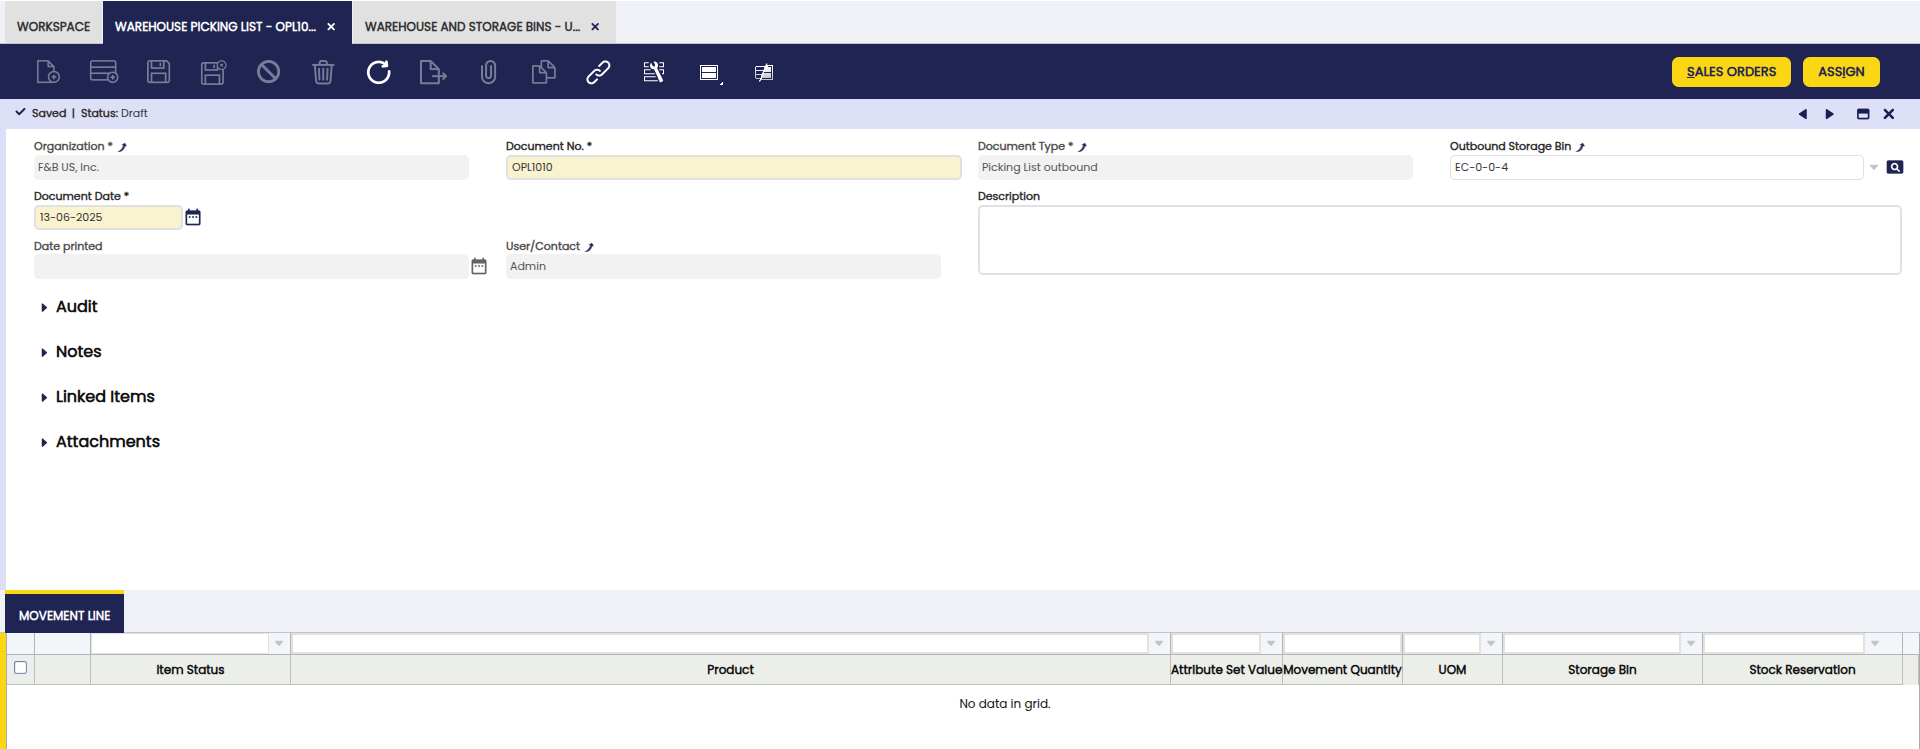
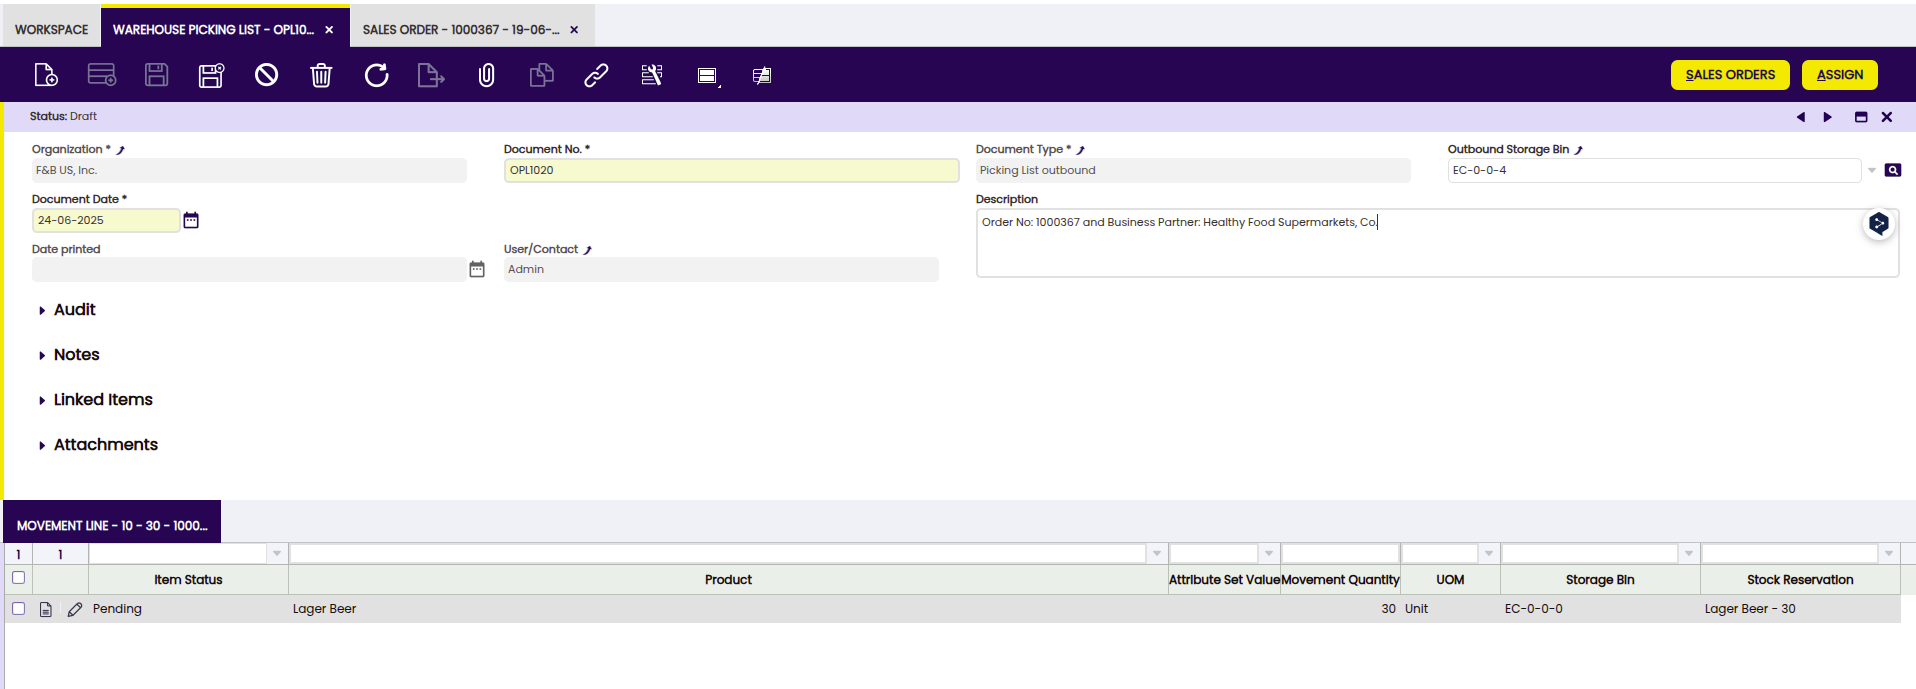
feature ETP-1579: edit content and add VAs.

Changed region(s): [[0.0, 0.0, 1.0, 1.0], [0.2463, 0.3048, 0.3079, 0.3962], [0.4927, 0.9144, 0.5543, 0.9448]]

diff --git a/docs/user-guide/etendo-classic/optional-features/bundles/warehouse-extensions/picking.md b/docs/user-guide/etendo-classic/optional-features/bundles/warehouse-extensions/picking.md
@@ -41,7 +41,7 @@ In Etendo there are 2 types of picking lists available:
 In order to generate picking lists, some configuration is needed:
 
 - **Document type**: The Picking list document type must be defined for each organization.
-The module provides a dataset with basic document types that can be applied. Go to [Enterprise module management](../../../basic-features/general-setup/enterprise-model.md#enterprise-module-management) and apply the **Warehouse Picking List dataset** for each organization using Picking Lists. Once it is applied, the document types are created.
+The module provides a dataset with basic document types that can be applied. Go to [Enterprise Module Management](../../../basic-features/general-setup/enterprise-model.md#enterprise-module-management) and apply the **Warehouse Picking List dataset** for each organization using Picking Lists. Once it is applied, the document types are created.
 
 ![picking1](../../../../../assets/user-guide/etendo-classic/optional-features/bundles/warehouse-extensions/picking/picking1.png)
 
@@ -52,7 +52,7 @@ The dataset adds two new document types, with their own Document Sequences which
 
 **Picking List outbound**: Used for **Outbound Picking List**, therefore **Use Outbound location** flag is set as **Yes** by default. This means that a Goods Movement needs to be created to move the goods from goods' storage bin to outbound storage bin. In this case, a storage bin of the warehouse needs to be defined as **Outbound**.
 
- - Generate Shipment on PL Completion flag if check generates Goods Shipments if Picking List is completed. A Goods Shipment document type needs to be selected in the field **Shipment for Picking**.
+ - Generate Shipment on PL Completion flag if checked generates Goods Shipments if Picking List is completed. A Goods Shipment document type needs to be selected in the field **Shipment for Picking**.
 
 **Grouping Pick List**: Using Outbound location and the **Is Grouping Picking List** flag checked. This document type is used when grouping different picking list in one list.
 
@@ -100,14 +100,8 @@ Fields to note:
 !!! info
     Products included in the outbound picking list are automatically reserved, ensuring that they cannot be used by other processes or picking lists.
 
-Once the header is manually created click on the Select Sales Orders button. This opens a window with a grid containing all the Sales Orders pending to be delivered that are not on an open Picking List. The sales orders that are shown are filtered by the warehouse of the outbound bin defined in the header of the picking list.
 
-It could happen that a sales order has items reserved in a warehouse **different than the warehouse defined in its header (due to definition of "qty on hand" per organization and priorities). In that case the picking list will try to re-allocated items from that warehouse to the warehouse of the outbound bin. If there is no way to perform this action the system will throw an error.
-
-!!!note
-    The system assumes that picking bins (from where you get the items) and the outbound bin must belong to the same warehouse. That's the reason why the system always try to reallocated items in the above scenario and also filters sales orders based on the warehouse of the outbound bin.
-
-From the **Sales Order** window, it is possible to select multiple orders which must be booked and they are not completely shipped. Using this process **both type of Picking Lists can be created**.
+From the [Sales Order](../../../basic-features/sales-management/transactions.md#sales-order) window, it is possible to select multiple orders which must be booked and they are not completely shipped. Using this process **both type of Picking Lists can be created**.
 
 
 The module adds a flag **In Picking List** in the Sales Order Header. This is checked when one of the lines of the sales order is present in a Picking List that is not closed. Using this flag and the Delivery Status and Delivery Date fields, it is possible to filter the Sales Order window to identify the Sales Orders needed to be included in a Picking List.
@@ -117,9 +111,29 @@ The module adds a flag **In Picking List** in the Sales Order Header. This is ch
 
 When a Sales Order line is included in a Picking List it must have a related reservation. The stock reserved is the used in the Picking List. The processes that generate the Picking Lists automatically create the reservations if the Sales Order Line does not have one.
 
+### Tab
+
+The **Movement Line** tab is shown when Outbound picking lists grouped is included. This includes all the goods movements related to the Picking List. 
+
+![picking8](../../../../../assets/user-guide/etendo-classic/optional-features/bundles/warehouse-extensions/picking/picking8.png)
+
+Relevant fields to note:
+
+- **Stock Reservation**: the reservation related to the movement, that links with the sales order line.
+- **Incidence Reason**: in case the line is in Incidence status can show a description of the incidence.
+- **Group Picking List** and **Warehouse Picking List**: in case a picking list is grouped shows the link to the original or the grouping picking list.
+
+#### Button
+
+- **Edit Item**: Edits the lines to change the attributes of the product to be picked. It is possible to select **different attributes and storage bins**. The total quantity must be equal or lower than the movement quantity of the related Stock Reservation. The process updates the reserved stock and the goods movements, deleting or creating new ones if necessary.
+
+![picking9](../../../../../assets/user-guide/etendo-classic/optional-features/bundles/warehouse-extensions/picking/picking9.png)
+
 ### Buttons
 
-- **Generate Picking List**: When the button is clicked a new window is opened. The first field to be filled is the Picking List type. Based on the selected type additional fields need to be set.
+- **Generate Picking List**: When the button is clicked a pop-up window is opened. The first field to be filled is the Picking List type. Based on the selected type additional fields need to be set.
+
+    ![picking.6](../../../../../assets/user-guide/etendo-classic/optional-features/bundles/warehouse-extensions/picking/picking6.png)
 
     - **Direct Picking List to Customer type**: it means that the products are picked directly from the storage locations (e.g. shelves or bins) and prepared for shipment to the customer without moving them to a specific intermediate location within the warehouse. When selected, the process generates a Goods Shipment in **Draft status** for each selected Sales Order. The Picking Lists are generated also in Draft status using a Document Type that has the Use Outbound Location flag unchecked.
 
@@ -143,27 +157,46 @@ When a Sales Order line is included in a Picking List it must have a related res
         - Group by Business partner: GBP
         - Group by Organization: GO
 
-    ![picking.6](../../../../../assets/user-guide/etendo-classic/optional-features/bundles/warehouse-extensions/picking/picking6.png)
+   
 
     !!!info
-        If there is no stock for at least one of the products a message is shown telling that a partial Picking List is created. Reservation, picking list and good shipment are created with the available stock.
+        If there is no stock for at least one of the products a message is shown telling that a partial Picking List is created. Reservation, picking list and goods shipment are created with the available stock.
 
 
     !!!info
-        If none of the products has stock, no picking list, no good shipment and no reservation is created.And an error message is shown.
+        If none of the products has stock, no picking list, no goods shipment and no reservation is created.And an error message is shown.
 
 
-    - **Outbound Picking List**:
+    - **Outbound Picking List**: it means that the products are picked from the storage bins, but instead of taking them directly to the packing/shipping area, they are moved to a **predefined outbound storage bin** in the warehouse. From this location, the products are packed and shipped.
 
-##### Buttons from the Warehouse Picking List window
+    !!! info
+        When generating the outbound picking list from a sales order or manually, Goods Movements are created in draft status to move the products from the storage locations to the outbound location.
+        In this window, the Process Movement button ends the process.
 
-- **Assign**: This button assigns the selected picking list to the warehouse agent chosen in the popup window. 
+    ![picking10](../../../../../assets/user-guide/etendo-classic/optional-features/bundles/warehouse-extensions/picking/picking10.png)
 
-- **Process**: The selected picking list and its associated good shipment are processed.
+    The operator picks the products and takes them to the designated issue location (e.g., a specific area of the warehouse for products ready for shipment).
+
+- **Sales Order**: The Sales Orders button opens a window with a grid containing all the Sales Orders pending to be delivered that **are not on an open Picking List**. The sales orders that are shown are filtered by the warehouse of the outbound bin defined in the header of the picking list.
+
+    It could happen that a sales order has items reserved in a warehouse **different than the warehouse defined in its header** (due to definition of "qty on hand" per organization and priorities). In that case the picking list will try to re-allocated items from that warehouse to the warehouse of the outbound bin. If there is no way to perform this action the system will throw an error.
+
+    !!!note
+        The system assumes that picking bins and the outbound bin must belong to the same warehouse. That's the reason why the system always try to reallocated items in the above scenario and also filters sales orders based on the warehouse of the outbound bin.
+
+- **Assign**: From the Warehouse Picking List window, this button assigns the selected picking list to the warehouse agent chosen in the pop-up window. 
+
+- **Manage Incidence**: In case there is a problem with the line an incidence can be raised. When the incidence is raised it is possible to set a description of the problem. When a line is in **Incidence status** the status of the document changes to **Incidence**. When the line is already in status Incidence and the incidence has been solved pressing the button again changes the status of the line to **Pending**. Then, the status of the document is also reset to the corresponding value depending on the status of all the lines.
+
+![picking11](../../../../../assets/user-guide/etendo-classic/optional-features/bundles/warehouse-extensions/picking/picking11.png)
+
+From the Warehouse Picking List window when the picking list type is **Direct Picking List**: 
+
+- **Process**: The Process button process the selected picking list and its associated good shipment. 
 
 - **Cancel**: The associated goods shipment and the picking list header are deleted. Except the lines is in a good shipment that is processed. Those lines, its processed goods shipment and picking list header are not deleted. In that case, the status of the picking list is set as Canceled.
 
-- **Validate**: When the warehouse worker has picked all the items the manager can verify them using this process.
+- **Validate**: When the warehouse worker has picked all the items, the manager can verify them using this process.
 
     The button opens a window showing all the items, for each one it has to be set the Qty Verified field. There are several ways to do it:
 
@@ -181,18 +214,14 @@ When a Sales Order line is included in a Picking List it must have a related res
 
 The Sales Order for Picking window allows **filtering from all the sales orders** that are in the system which are ready for picking.
 
-The sales orders must be:
+The sales orders must be **Completed** and have the box **Exclude from Picking List** unchecked. 
 
-- Completed
-
-- Have the box Exclude from Picking List unchecked
-
-When the sales orders are created, the Reservation Status is Not  Reserved. 
+When the sales orders are created, the Reservation Status is **Not Reserved**. 
 
 ![picking3](../../../../../assets/user-guide/etendo-classic/optional-features/bundles/warehouse-extensions/picking/picking3.png)
 
 !!!info
-    Once the picking process is complete, the user may continue with the packing process. 
+    Once the Picking process is complete, the user may continue with the Packing process. 
     
-    For more information visit: [packing](../../bundles/warehouse-extensions/packing.md)
+    For more information visit: [Packing](../../bundles/warehouse-extensions/packing.md).
 
